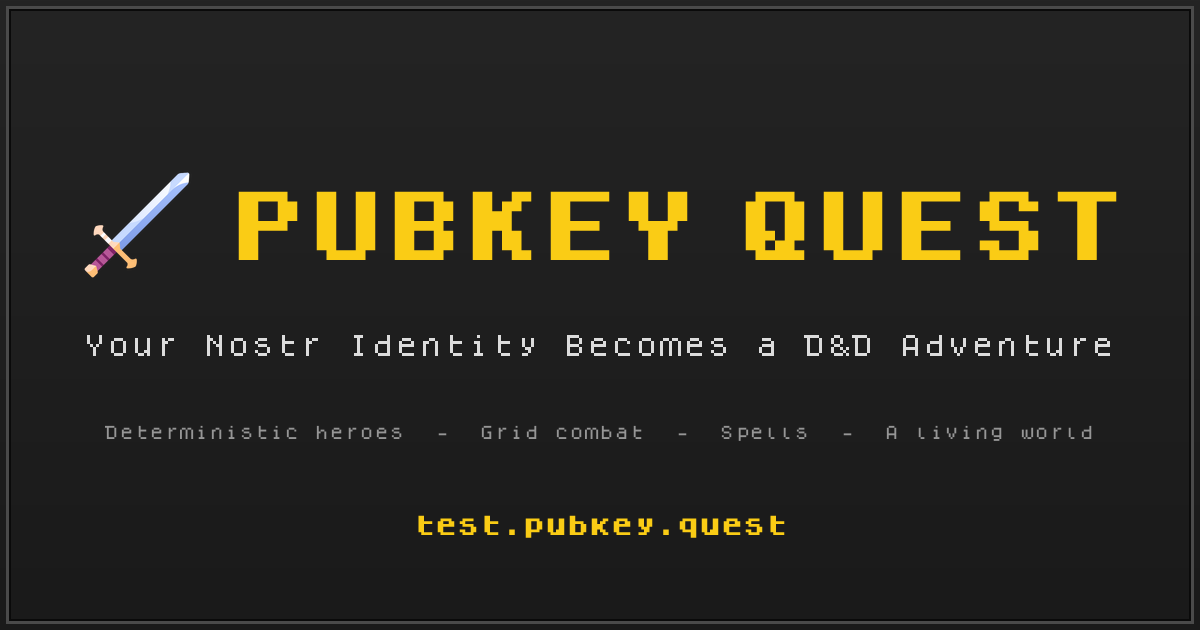
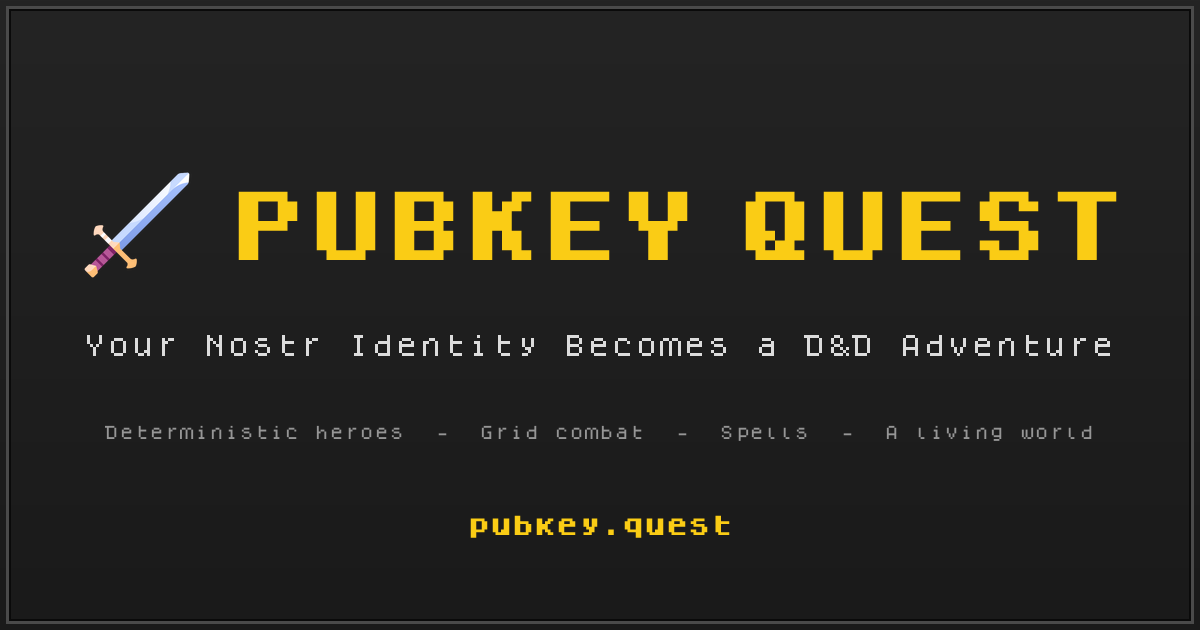
site: production social URLs, cache-bust CSS, fix mobile Discover button
Three fixes to get the public site right before opening to testers:
- Social/canonical URLs now point at the production host pubkey.quest (proxied to
  test for now) instead of test.pubkey.quest, and the card image is regenerated
  to match. The test server never needs a share card.
- Version the /dist/index.css link with ?v={{.Version}} (the git SHA, like the JS
  bundles). CSS changes were otherwise cached indefinitely, so returning visitors
  would see stale styling after a deploy.
- The 'Discover Your Character' CTA had white-space:nowrap and filled a phone
  viewport edge-to-edge, running off-screen on narrower devices. It now wraps and
  caps at max-width (max-w-full whitespace-normal). Verified fitting at 320px.

Changed region(s): [[0.3392, 0.8143, 0.6475, 0.8746]]

diff --git a/www/views/templates/layout.html b/www/views/templates/layout.html
@@ -5,7 +5,7 @@
     <meta charset="UTF-8" />
     <meta name="viewport" content="width=device-width, initial-scale=1.0" />
     <!-- CSS bundled by Vite -->
-    <link href="/dist/index.css" rel="stylesheet" />
+    <link href="/dist/index.css?v={{.Version}}" rel="stylesheet" />
     <link
       rel="stylesheet"
       href="//cdn.jsdelivr.net/gh/highlightjs/cdn-release@10.3.2/build/styles/shades-of-purple.min.css"
@@ -14,17 +14,18 @@
     <script src="https://cdn.jsdelivr.net/npm/hls.js@latest"></script>
     <link rel="icon" type="image/x-icon" href="/res/img/favicon.ico" />
 
-    <!-- SEO + social preview card. Absolute URLs are required by social scrapers;
-         canonical host is test.pubkey.quest until production (change in one place). -->
+    <!-- SEO + social preview card. Social scrapers require ABSOLUTE URLs, so these
+         point at the public production host (pubkey.quest — currently proxied to the
+         test server); change the host in one place here if it ever moves. -->
     <meta name="description" content="Pubkey Quest turns your Nostr identity into a D&amp;D 5e-inspired RPG — a deterministic character from your npub, grid combat, spells, and a living world." />
     <meta name="theme-color" content="#1a1a1a" />
-    <link rel="canonical" href="https://test.pubkey.quest/" />
+    <link rel="canonical" href="https://pubkey.quest/" />
     <meta property="og:type" content="website" />
     <meta property="og:site_name" content="Pubkey Quest" />
     <meta property="og:title" content="Pubkey Quest" />
     <meta property="og:description" content="Your Nostr identity becomes a D&amp;D adventure. Deterministic characters, grid combat, spells, a living world." />
-    <meta property="og:url" content="https://test.pubkey.quest/" />
-    <meta property="og:image" content="https://test.pubkey.quest/res/img/og-card.png?v=1" />
+    <meta property="og:url" content="https://pubkey.quest/" />
+    <meta property="og:image" content="https://pubkey.quest/res/img/og-card.png?v=1" />
     <meta property="og:image:type" content="image/png" />
     <meta property="og:image:width" content="1200" />
     <meta property="og:image:height" content="630" />
@@ -32,7 +33,7 @@
     <meta name="twitter:card" content="summary_large_image" />
     <meta name="twitter:title" content="Pubkey Quest" />
     <meta name="twitter:description" content="Your Nostr identity becomes a D&amp;D adventure. Deterministic characters, grid combat, spells, a living world." />
-    <meta name="twitter:image" content="https://test.pubkey.quest/res/img/og-card.png?v=1" />
+    <meta name="twitter:image" content="https://pubkey.quest/res/img/og-card.png?v=1" />
 
     <!-- PWA: installable to the home screen -->
     <link rel="manifest" href="/manifest.json" />

diff --git a/www/views/tabs/home.html b/www/views/tabs/home.html
@@ -46,7 +46,7 @@
         <p class="text-sm mb-4" style="color: var(--color-textMuted);">
           🔐 Secure Nostr authentication • 🎲 Deterministic character generation • 💾 Save your progress
         </p>
-        <a href="/discover" class="action-button-primary pixel-clip px-3 py-2 text-xs sm:px-6 sm:py-3 sm:text-sm inline-block hover:opacity-90 transition">
+        <a href="/discover" class="action-button-primary pixel-clip px-3 py-2 text-xs sm:px-6 sm:py-3 sm:text-sm inline-block max-w-full whitespace-normal text-center leading-snug hover:opacity-90 transition">
           🔮 Discover Your Character
         </a>
       </div>

diff --git a/www/views/templates/game-layout.html b/www/views/templates/game-layout.html
@@ -5,7 +5,7 @@
     <meta charset="UTF-8" />
     <meta name="viewport" content="width=device-width, initial-scale=1.0" />
     <!-- CSS bundled by Vite -->
-    <link href="/dist/index.css" rel="stylesheet" />
+    <link href="/dist/index.css?v={{.Version}}" rel="stylesheet" />
     <link rel="icon" type="image/x-icon" href="/res/img/favicon.ico" />
 
     <!-- PWA: installable to the home screen -->